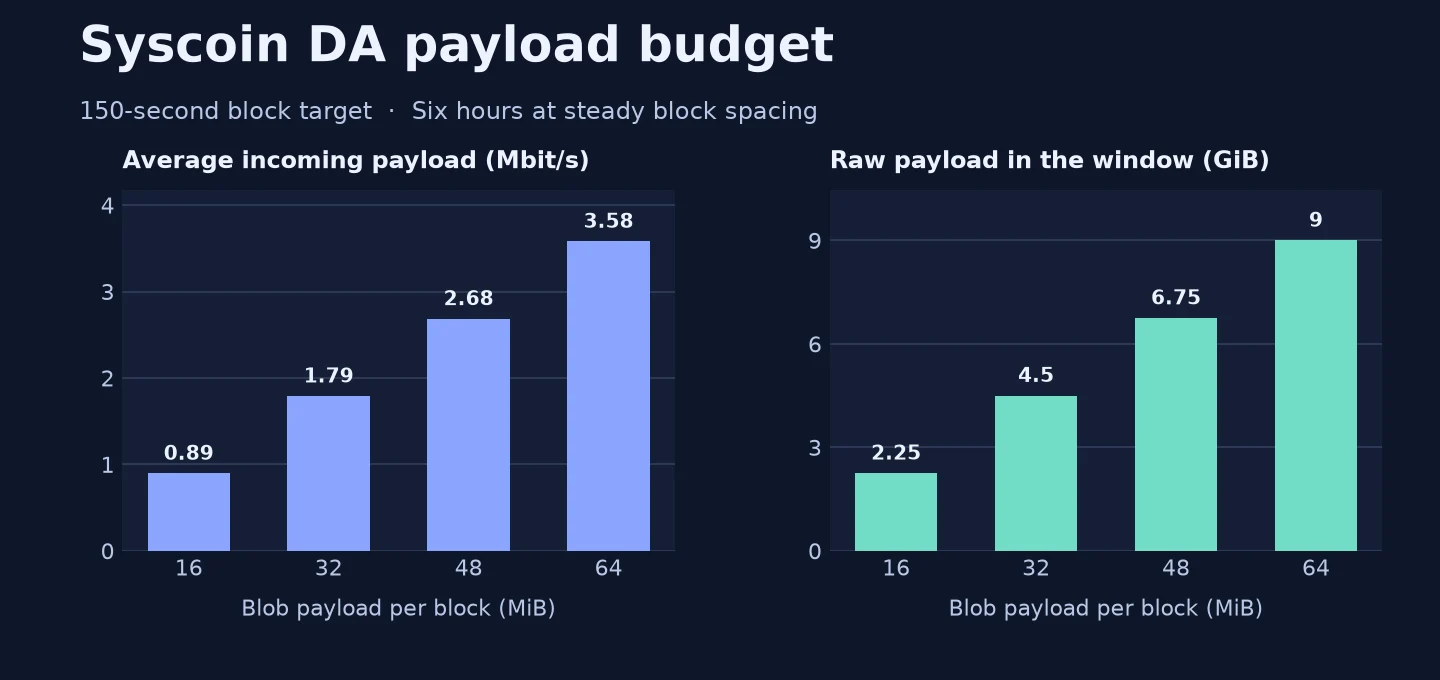
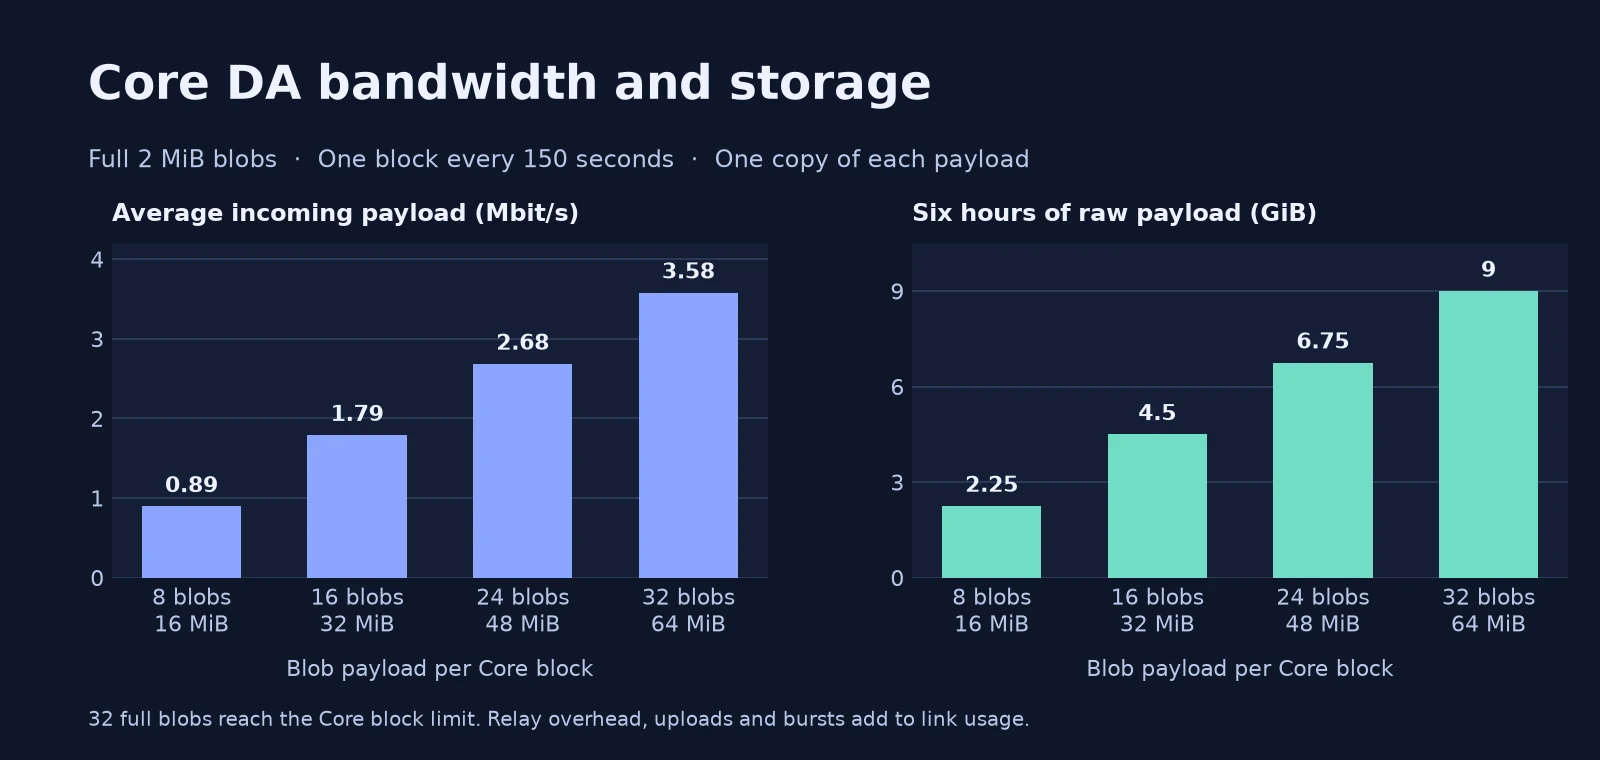
Connect Syscoin verification to shared resources and document the DA budget

diff --git a/src/pages/index.js b/src/pages/index.js
@@ -12,27 +12,28 @@ const routes = [
 ];
 
 export default function Home() {
-  const art = useBaseUrl('/img/syscoin-foundations.webp');
+  const art = useBaseUrl('/img/compute-cooperative.webp');
   return (
     <Layout title="Syscoin engineering documentation" description="Understand Syscoin Core, NEVM settlement, hash-based data availability, and zkSYS.">
       <main className={styles.home}>
         <header className={styles.hero}>
           <div className={styles.heroText}>
-            <h1>How Syscoin scales execution.</h1>
-            <p>An application can answer quickly. Someone who never ran its server should still be able to check the result. Follow a zkSYS transaction to see how Bitcoin mining work, published data, and proofs make that possible.</p>
+            <h1>Who gets the last GPU hour?</h1>
+            <p>Imagine two AI agents booking one machine. The community that owns it needs to see who had permission, which request won, and how to appeal. Syscoin’s design gives independent operators a shared history on which to check the decision.</p>
             <div className={styles.actions}>
               <Link className={`${styles.action} ${styles.primary}`} to="/docs/intro/nutshell">Follow a transaction <span aria-hidden="true">→</span></Link>
-              <Link className={styles.action} to="/docs/intro/status">Check network and release status</Link>
+              <Link className={styles.action} to="/docs/intro/human-and-ai">Follow the disputed reservation</Link>
             </div>
           </div>
           <div className={styles.art}>
-            <img src={art} alt="" width="1200" height="800" fetchPriority="high" />
+            <img src={art} alt="Two cooperative members check a reservation ledger and a power meter beside their shared GPU rack." width="1344" height="756" fetchPriority="high" />
           </div>
         </header>
         <nav className={styles.networks} aria-label="Architecture guides">
           <Link to="/docs/architecture/overview"><small>System map</small><b>How the layers fit together</b></Link>
           <Link to="/docs/architecture/comparison"><small>Other chains</small><b>Compare the tradeoffs</b></Link>
           <Link to="/docs/architecture/bitcoin-bridge#inspect-a-tag-in-a-bitcoin-block"><small>Bitcoin bridge research</small><b>Inspect a real mining tag</b></Link>
+          <Link to="/docs/intro/status"><small>Network status</small><b>Check deployments and releases</b></Link>
         </nav>
         <section className={styles.reading} aria-labelledby="docs-topics">
           <h2 id="docs-topics">Explore the stack</h2>
@@ -45,9 +46,9 @@ export default function Home() {
             ))}
           </div>
           <aside className={styles.thesis}>
-            <h2>Who sets the rules when intelligence gets cheap?</h2>
-            <p>If an AI agent reserves a community’s last hour of compute, how can another member check that it had permission? Follow a reservation from a local rule to a record another cooperative can verify.</p>
-            <Link to="/docs/intro/human-and-ai">Humans, AI, and shared resources <span aria-hidden="true">→</span></Link>
+            <h2>Start with a receipt you can check.</h2>
+            <p>A transaction in Genesis block 10,968 reached Gateway and then Tanenbaum NEVM. Match its batch number to the events on each chain and inspect what the settlement contract accepted.</p>
+            <Link to="/docs/reference/zksys#trace-a-public-testnet-transaction">Trace the testnet transaction <span aria-hidden="true">→</span></Link>
           </aside>
         </section>
       </main>

diff --git a/src/pages/index.module.css b/src/pages/index.module.css
@@ -48,7 +48,7 @@
 .primary:hover { background: #1d39c6; }
 .art { border-radius: 1rem; overflow: hidden; background: #080f28; border: 1px solid var(--sys-line); box-shadow: 0 26px 60px #080f281a; }
 .art img { display: block; width: 100%; height: auto; }
-.networks { display: grid; grid-template-columns: repeat(3,minmax(0,1fr)); }
+.networks { display: grid; grid-template-columns: repeat(4,minmax(0,1fr)); }
 .networks a { padding: 1.25rem 1rem 1.25rem 0; color: var(--ifm-font-color-base); border-block: 1px solid var(--sys-line); }
 .networks b { display: block; margin-top: .32rem; font-size: 1.04rem; }
 .reading { padding-block: 3.5rem 4.5rem; }
@@ -66,6 +66,8 @@
 @media (max-width: 800px) {
   .hero { grid-template-columns: 1fr; }
   .hero h1 { max-width: 16ch; }
+  .networks { grid-template-columns: repeat(2,minmax(0,1fr)); }
+  .networks a:nth-child(n+3) { border-top: none; }
 }
 @media (max-width: 520px) {
   .networks, .routes { grid-template-columns: 1fr; }

diff --git a/src/css/custom.css b/src/css/custom.css
@@ -52,6 +52,10 @@
 .markdown table { width: 100%; }
 .markdown table td, .markdown table th { vertical-align: top; }
 .markdown img { border-radius: .5rem; }
+.markdown .editorial-plate { margin: 1.25rem 0 1.75rem; }
+.editorial-plate p { margin: 0; }
+.editorial-plate img { display: block; width: 100%; height: auto; }
+.editorial-plate figcaption { margin-top: .6rem; padding-inline-start: .8rem; border-inline-start: 2px solid var(--sys-line); color: var(--sys-muted); font-size: .92rem; line-height: 1.45; }
 .menu { font-size: .9rem; }
 .footer--dark { --ifm-footer-background-color: #090f21; border-top: 1px solid #293751; }
 :where(a,button,input):focus-visible { outline: 2px solid var(--sys-accent); outline-offset: 3px; }

diff --git a/scripts/plot_da_payload_budget.py b/scripts/plot_da_payload_budget.py
@@ -1,0 +1,53 @@
+"""Render the Core DA budget figure with Matplotlib and Pillow."""
+
+from pathlib import Path
+
+import matplotlib
+
+matplotlib.use("Agg")
+import matplotlib.pyplot as plt
+from matplotlib.ticker import MultipleLocator
+
+
+BLOCK_INTERVAL_SECONDS = 150
+RETENTION_SECONDS = 6 * 60 * 60
+FULL_BLOB_BYTES = 2 * 1024**2
+
+blob_counts = [8, 16, 24, 32]
+block_bytes = [count * FULL_BLOB_BYTES for count in blob_counts]
+rate_mbit_s = [size * 8 / BLOCK_INTERVAL_SECONDS / 1_000_000 for size in block_bytes]
+retained_gib = [
+    size * RETENTION_SECONDS / BLOCK_INTERVAL_SECONDS / 1024**3 for size in block_bytes
+]
+workloads = [f"{count} blobs\n{size // 1024**2} MiB" for count, size in zip(blob_counts, block_bytes)]
+
+foreground = "#eef2ff"
+secondary = "#bac8e6"
+fig, axes = plt.subplots(1, 2, figsize=(10, 4.75), facecolor="#0e1629")
+fig.subplots_adjust(left=.07, right=.98, bottom=.24, top=.68, wspace=.22)
+fig.text(.055, .87, "Core DA bandwidth and storage", color=foreground, fontsize=21, weight="bold")
+fig.text(.055, .78, "Full 2 MiB blobs  ·  One block every 150 seconds  ·  One copy of each payload",
+         color=secondary, fontsize=11)
+
+for ax, values, title, color, step, limit in [
+    (axes[0], rate_mbit_s, "Average incoming payload (Mbit/s)", "#8ba6ff", 1, 4.2),
+    (axes[1], retained_gib, "Six hours of raw payload (GiB)", "#73dcc7", 3, 10.5),
+]:
+    ax.set_facecolor("#141f36")
+    ax.set_axisbelow(True)
+    ax.yaxis.grid(True, color="#2e3d5b", linewidth=.8)
+    ax.set_ylim(0, limit)
+    ax.yaxis.set_major_locator(MultipleLocator(step))
+    ax.tick_params(colors=secondary, length=0, labelsize=10)
+    ax.set_title(title, loc="left", color=foreground, fontsize=11, weight="bold", pad=10)
+    ax.set_xlabel("Blob payload per Core block", color=secondary, fontsize=10, labelpad=9)
+    for spine in ax.spines.values():
+        spine.set_visible(False)
+    bars = ax.bar(workloads, values, width=.6, color=color, zorder=3)
+    ax.bar_label(bars, labels=[f"{value:.2f}".rstrip("0").rstrip(".") for value in values],
+                 color=foreground, padding=4, fontsize=10, weight="bold")
+
+fig.text(.055, .045, "32 full blobs reach the Core block limit. Relay overhead, uploads and bursts add to link usage.",
+         color=secondary, fontsize=9)
+output = Path(__file__).resolve().parents[1] / "static" / "img" / "da-payload-budget.webp"
+fig.savefig(output, dpi=160, pil_kwargs={"quality": 90})

diff --git a/images/illustrations.md b/images/illustrations.md
@@ -1,0 +1,39 @@
+# Illustrating Syscoin
+
+Use landscape ink and gouache on warm paper, deep indigo shadows and practical amber light. Give each scene a distinct viewpoint and one focal action that remains legible on a phone. A person reading a meter makes the distinction between a physical observation and a ledger entry visible.
+
+Captions identify imagined settings. Keep original figures with their source and units. Draw protocol diagrams from the specification so each arrow corresponds to an operation a reader can check.
+
+## Art and source prompts
+
+The four illustrations use the built-in image generation tool. The cooperative is the visual reference for the other three. The later prompts combine this shared direction with an individual scene description.
+
+> Create a distinct landscape plate for the same Syscoin technical documentation series as the reference. Match the reference's fine hand-inked contours, richly layered gouache on warm paper, amber light against deep indigo, and observational, documentary tone. Compose a wide horizontal landscape with one legible focal action. This is a different scene, not a restaging of the example. No text, no letters, no numbers, no logos, no crypto icons, no diagram.
+
+### Cooperative
+
+[compute-cooperative.webp](../static/img/compute-cooperative.webp)
+
+> Editorial illustration for Syscoin’s human and AI governance chapter. In a community-owned compute room at dusk, two cooperative members compare a paper reservation ledger with the physical power meter beside a single GPU rack. Landscape, precise ink and gouache on warm paper, deep indigo shadows, amber meter light, a quiet documentary composition. Keep the people, ledger, meter and rack legible on a phone. No lettering, logos, coins or robot mascots.
+
+### Mining hall
+
+[bitcoin-mining-hall.webp](../static/img/bitcoin-mining-hall.webp)
+
+> At the entrance to an industrial Bitcoin mining hall in cool dawn light, a technician seen from behind wheels a spare fan toward long aisles of real ASIC miners. Warm amber light catches individual intake grilles and copper busbars. Wide architectural perspective, an ordinary person for scale, concrete floor and distant ventilation louvers. The physical hardware that earns proof of work is the subject.
+
+### Recovery
+
+[recovering-a-batch.webp](../static/img/recovering-a-batch.webp)
+
+> Close still life from just above the shoulder of a local archive operator restoring a stored copy of a rollup batch. A hand slides a worn archival drive into a small desktop dock. In the background are a modest orderly shelf of removable drives and cool reflections off the dark monitor. Low angled late light falls across the drive in the foreground. Modest community workshop, tactile details and practical equipment.
+
+### Across distance
+
+[mars-signal.webp](../static/img/mars-signal.webp)
+
+> Speculative observatory on Mars at first light. A geodesic habitat and an articulated communications dish at the edge of a human settlement in a broad red valley under a dark indigo sky. Two tiny figures adjust the dish toward a single planet-like point on the horizon. A distinct broad horizon, ochre dust, precise ink texture, warm quiet light from the habitat. A contemplation of distance and the wait for a signal, physically grounded without imaginary highways or beams.
+
+The final pass corrected the outdoor work scene.
+
+> Revise this same Mars illustration for physical accuracy. Both people are outdoors in the Martian atmosphere. Give each a sealed EVA pressure suit with a rigid helmet and reflective face visor, gloves, boots and a life-support pack. No exposed face, hair or skin on either person. Preserve the horizon, communications dish, warm habitat light, wide ink-and-gouache composition and all other details.

diff --git a/README.md b/README.md
@@ -16,3 +16,5 @@ Run `npm run build` to compile MDX, check site links, and generate the static si
 ## Update protocol docs
 
 Put architecture under `docs/architecture`, interfaces and source notes under `docs/reference`, and network status under `docs/intro/status.mdx`. Use a pinned source link for implementation details. Mark which network, release, candidate revision, or research result supports each claim. Keep published paths working when replacing old content. Mermaid diagrams live next to the explanation they illustrate.
+
+The [illustration guide](./images/illustrations.md) includes the assets, visual style and scene prompts for the illustrated chapters.
